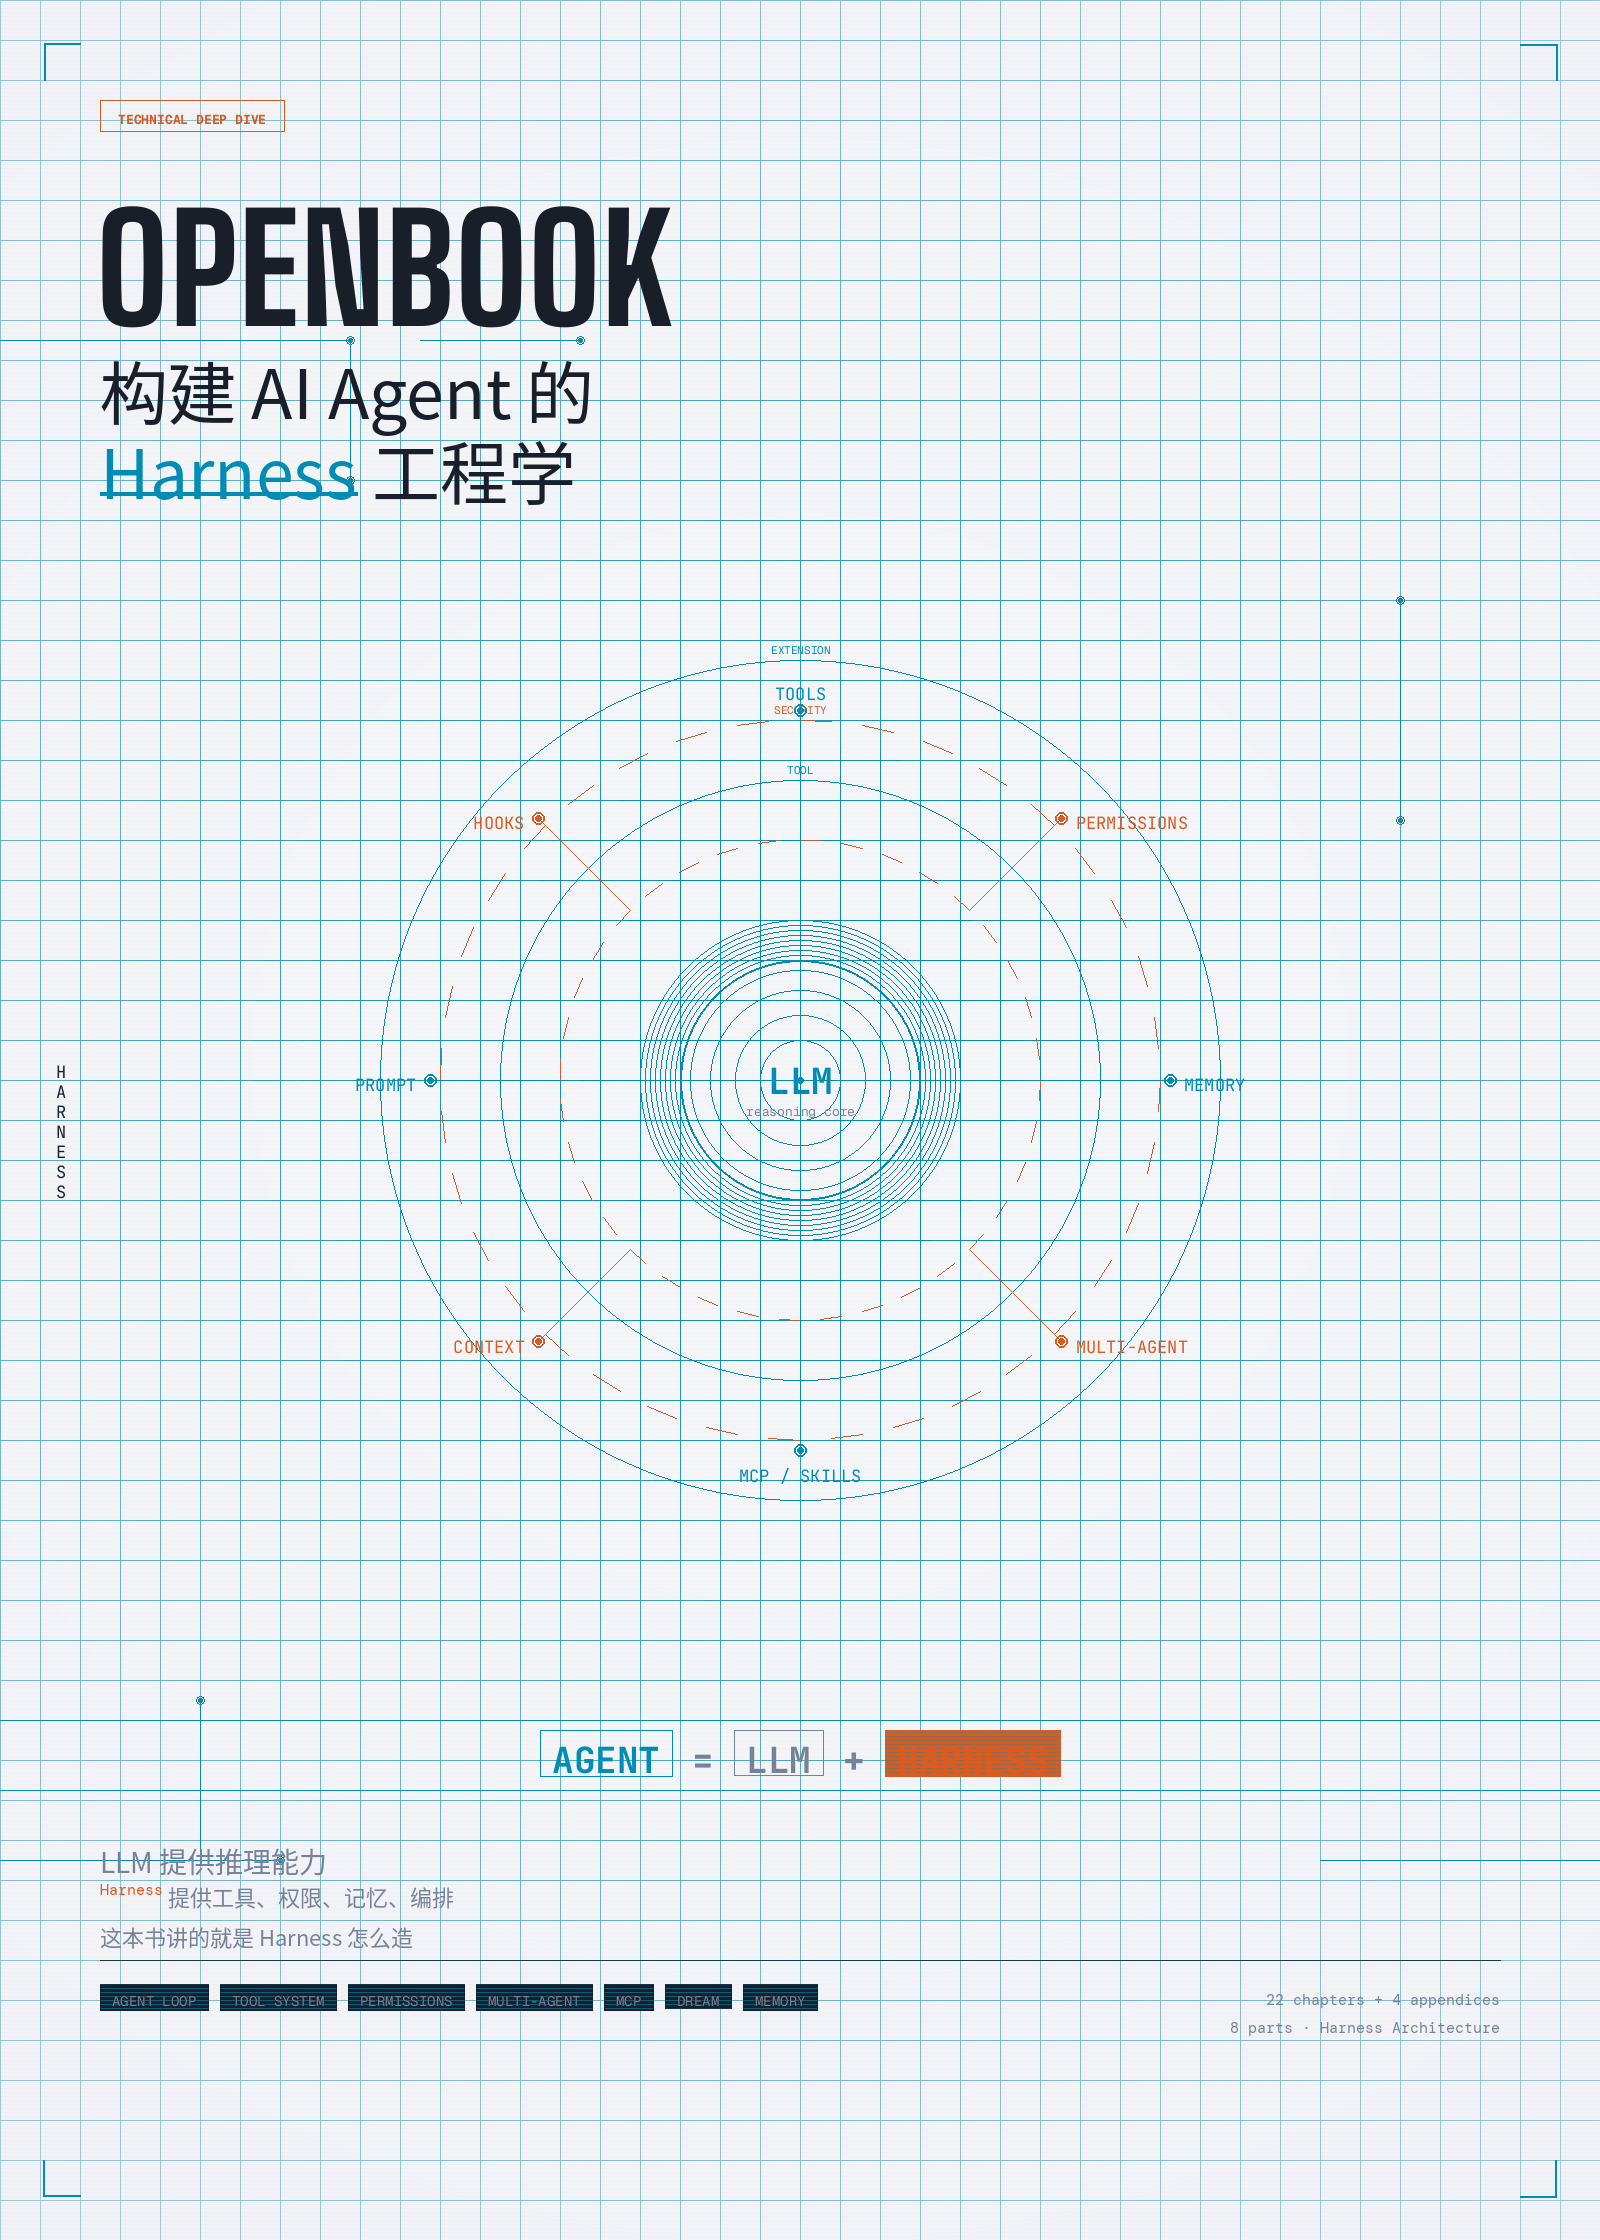
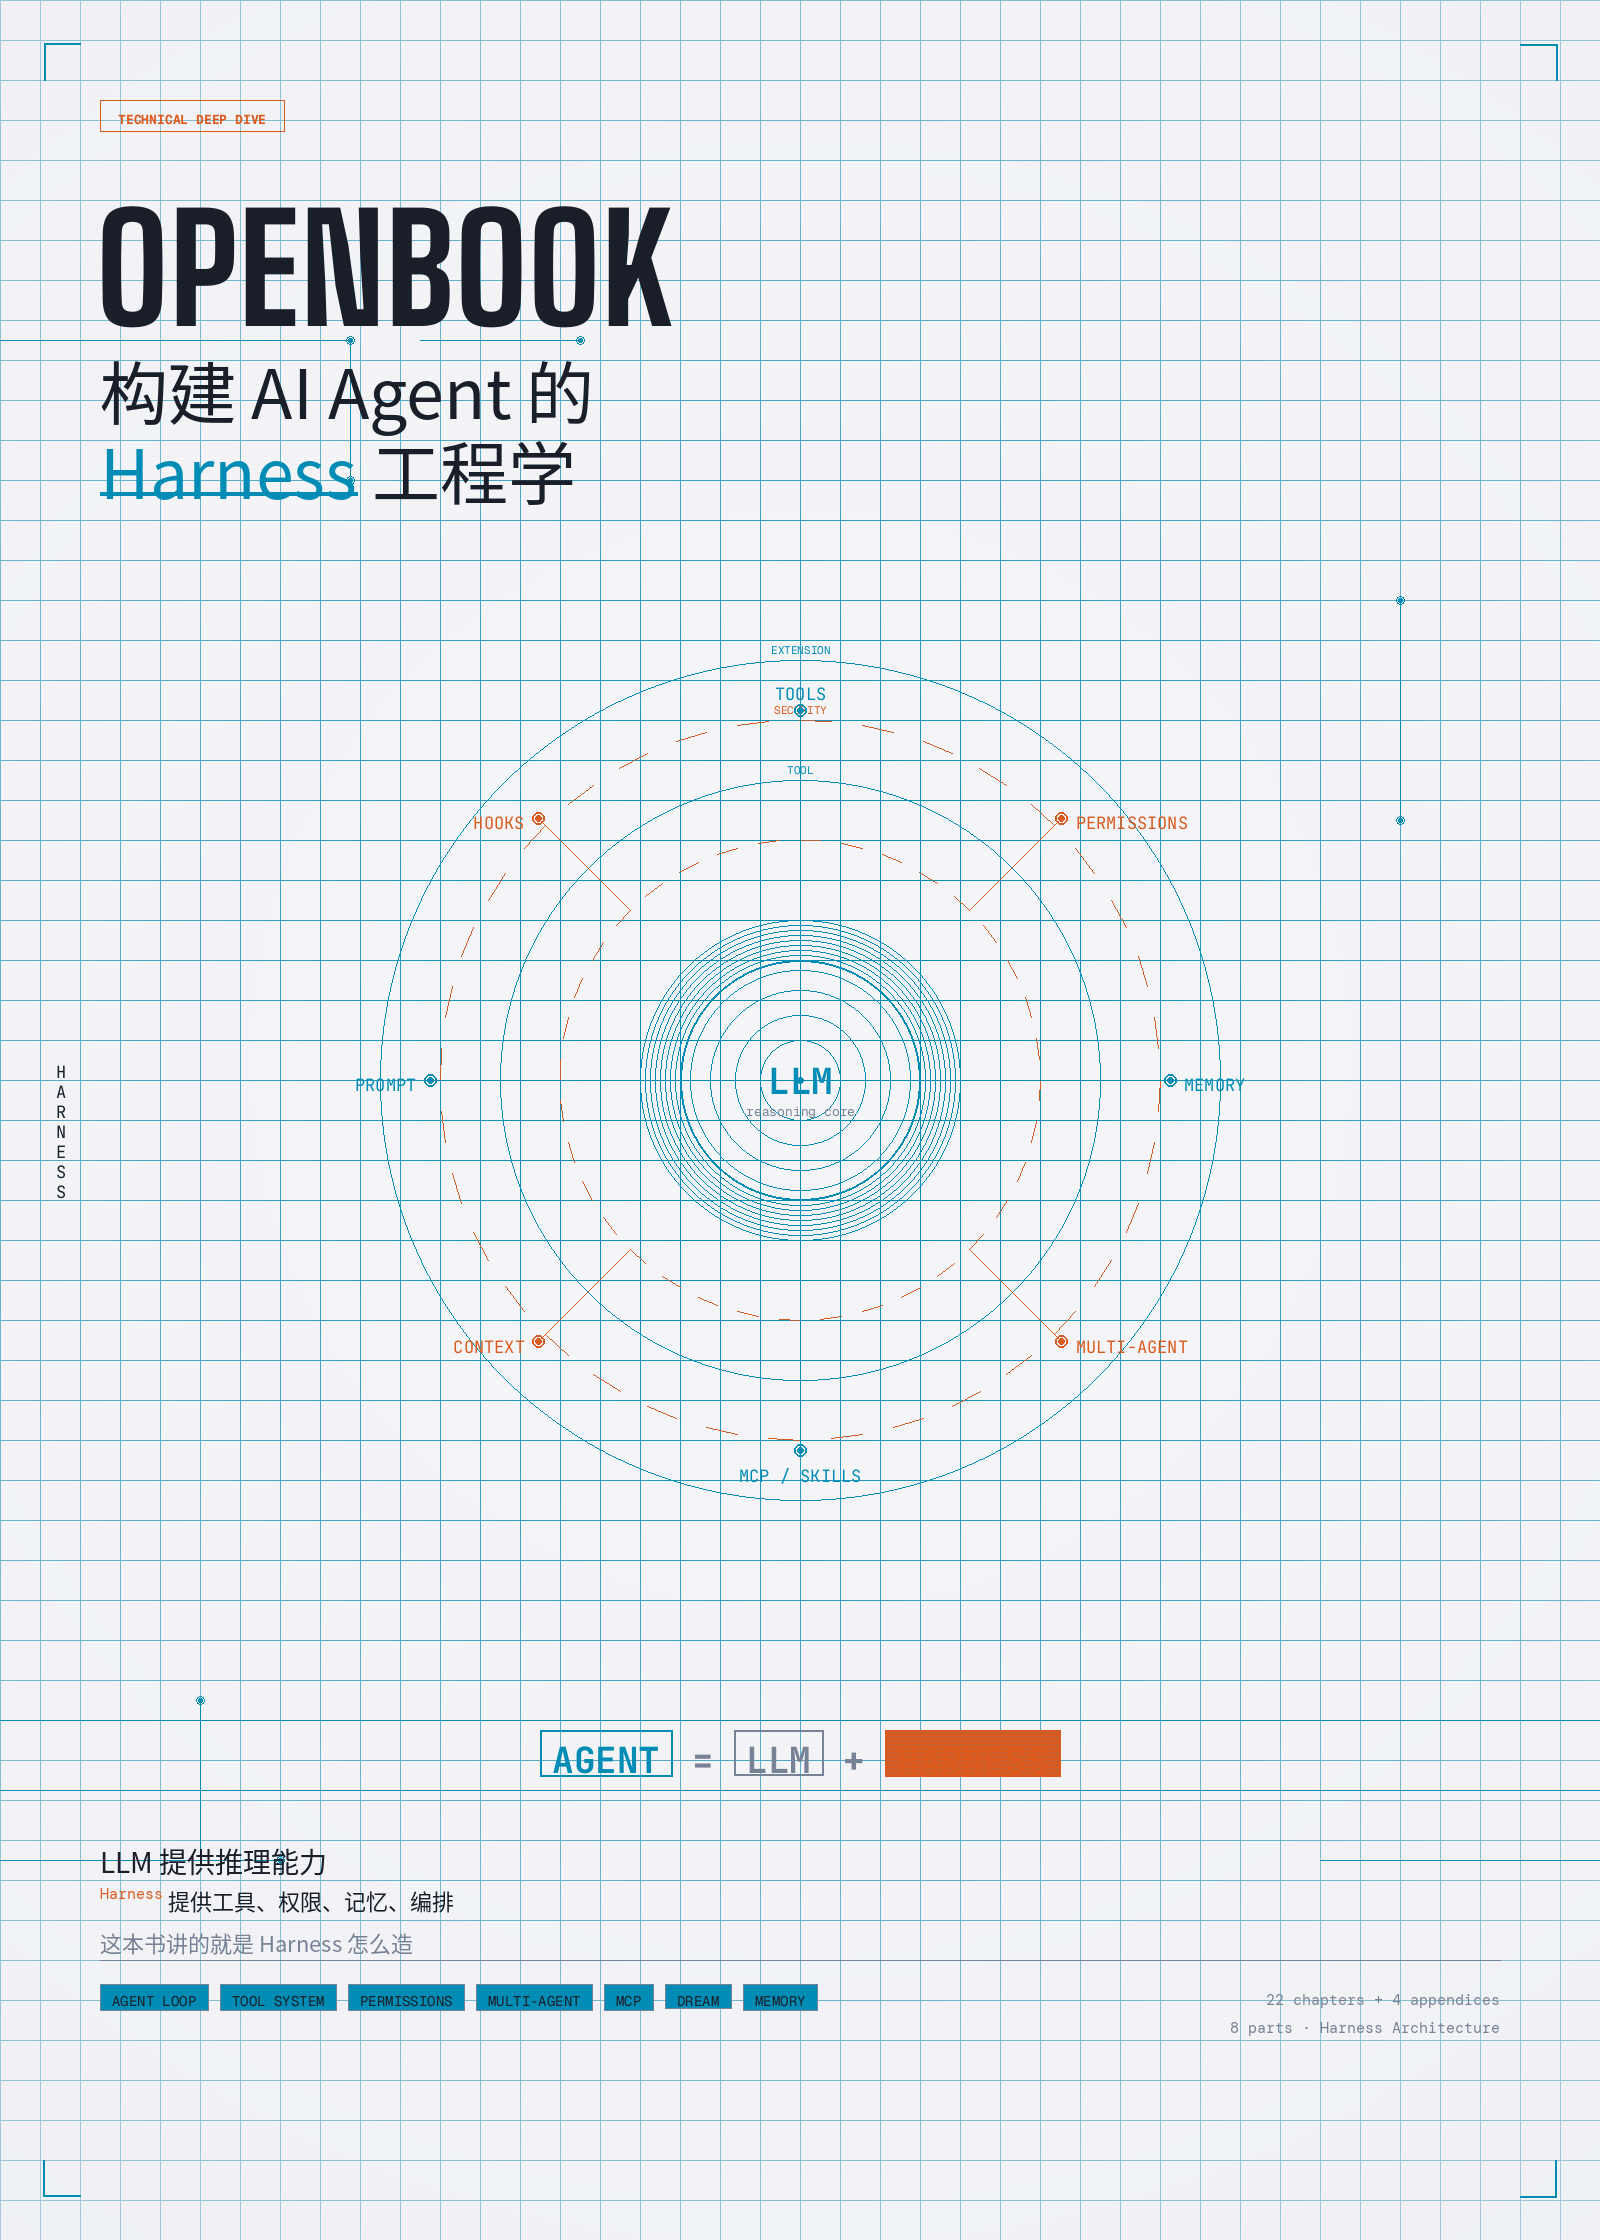
Fix cover: improve text contrast for light background

Changed region(s): [[0.0625, 0.8125, 0.5312, 0.9062]]

diff --git a/generate_cover.py b/generate_cover.py
@@ -353,21 +353,21 @@ for i, (text, color, highlight) in enumerate(eq_parts):
     ty = eq_y + 16
 
     if text in ["=", "+"]:
-        draw.text((tx, ty), text, fill=alpha_color(color, 120), font=font_equation)
+        draw.text((tx, ty), text, fill=alpha_color(color, 220), font=font_equation)
     else:
         # Box around text
         box_color = color
-        box_alpha = 60 if not highlight else 80
+        box_alpha = 140 if not highlight else 180
         draw.rectangle(
             [tx - pad, ty - pad//2, tx + tw + pad, ty + th + pad],
-            outline=alpha_color(box_color, box_alpha), width=1
+            outline=alpha_color(box_color, box_alpha), width=2
         )
         if highlight:
             draw.rectangle(
                 [tx - pad + 1, ty - pad//2 + 1, tx + tw + pad - 1, ty + th + pad - 1],
-                fill=alpha_color(ORANGE, 8)
+                fill=alpha_color(ORANGE, 20)
             )
-        draw.text((tx, ty), text, fill=alpha_color(color, 200), font=font_equation)
+        draw.text((tx, ty), text, fill=(*color, 255), font=font_equation)
 
     eq_start_x += tw + gap
 
@@ -380,19 +380,19 @@ sub_line2 = "Harness 提供工具、权限、记忆、编排"
 sub_line3 = "这本书讲的就是 Harness 怎么造"
 
 if font_cjk_medium:
-    draw.text((100, sub_y), sub_line1, fill=alpha_color(MUTED, 180), font=font_cjk_medium)
+    draw.text((100, sub_y), sub_line1, fill=(*TEXT, 255), font=font_cjk_medium)
 
     # "Harness" in orange
-    draw.text((100, sub_y + 40), "Harness", fill=alpha_color(ORANGE, 200), font=font_meta)
+    draw.text((100, sub_y + 44), "Harness", fill=(*ORANGE, 255), font=font_meta)
     bbox = draw.textbbox((0, 0), "Harness", font=font_meta)
     hw2 = bbox[2] - bbox[0]
-    draw.text((100 + hw2, sub_y + 40), " 提供工具、权限、记忆、编排", fill=alpha_color(MUTED, 180), font=font_cjk_small)
+    draw.text((100 + hw2, sub_y + 44), " 提供工具、权限、记忆、编排", fill=(*TEXT, 220), font=font_cjk_small)
 
-    draw.text((100, sub_y + 80), sub_line3, fill=alpha_color(MUTED, 140), font=font_cjk_small)
+    draw.text((100, sub_y + 86), sub_line3, fill=(*MUTED, 255), font=font_cjk_small)
 
 # Divider
 div_y = H - 280
-draw.line([(100, div_y), (W - 100, div_y)], fill=alpha_color(TEXT, 12), width=1)
+draw.line([(100, div_y), (W - 100, div_y)], fill=alpha_color(MUTED, 60), width=1)
 
 # Tags
 tags = ["AGENT LOOP", "TOOL SYSTEM", "PERMISSIONS", "MULTI-AGENT", "MCP", "DREAM", "MEMORY"]
@@ -407,10 +407,10 @@ for tag in tags:
     pad_tx, pad_ty = 12, 7
     draw.rectangle(
         [tag_x, tag_y, tag_x + tw + pad_tx * 2, tag_y + th + pad_ty * 2],
-        outline=alpha_color(TEXT, 15), width=1,
-        fill=alpha_color(TEXT, 3)
+        outline=alpha_color(MUTED, 80), width=1,
+        fill=alpha_color(CYAN, 8)
     )
-    draw.text((tag_x + pad_tx, tag_y + pad_ty), tag, fill=alpha_color(MUTED, 140), font=font_tag)
+    draw.text((tag_x + pad_tx, tag_y + pad_ty), tag, fill=(*TEXT, 230), font=font_tag)
 
     tag_x += tw + pad_tx * 2 + 12
     if tag_x > W - 200:
@@ -426,7 +426,7 @@ meta_lines = [
 for i, line in enumerate(meta_lines):
     bbox = draw.textbbox((0, 0), line, font=font_meta)
     tw = bbox[2] - bbox[0]
-    draw.text((W - 100 - tw, meta_y + i * 28), line, fill=alpha_color(MUTED, 120), font=font_meta)
+    draw.text((W - 100 - tw, meta_y + i * 28), line, fill=(*MUTED, 255), font=font_meta)
 
 # === CORNER MARKS ===
 corner_size = 36
